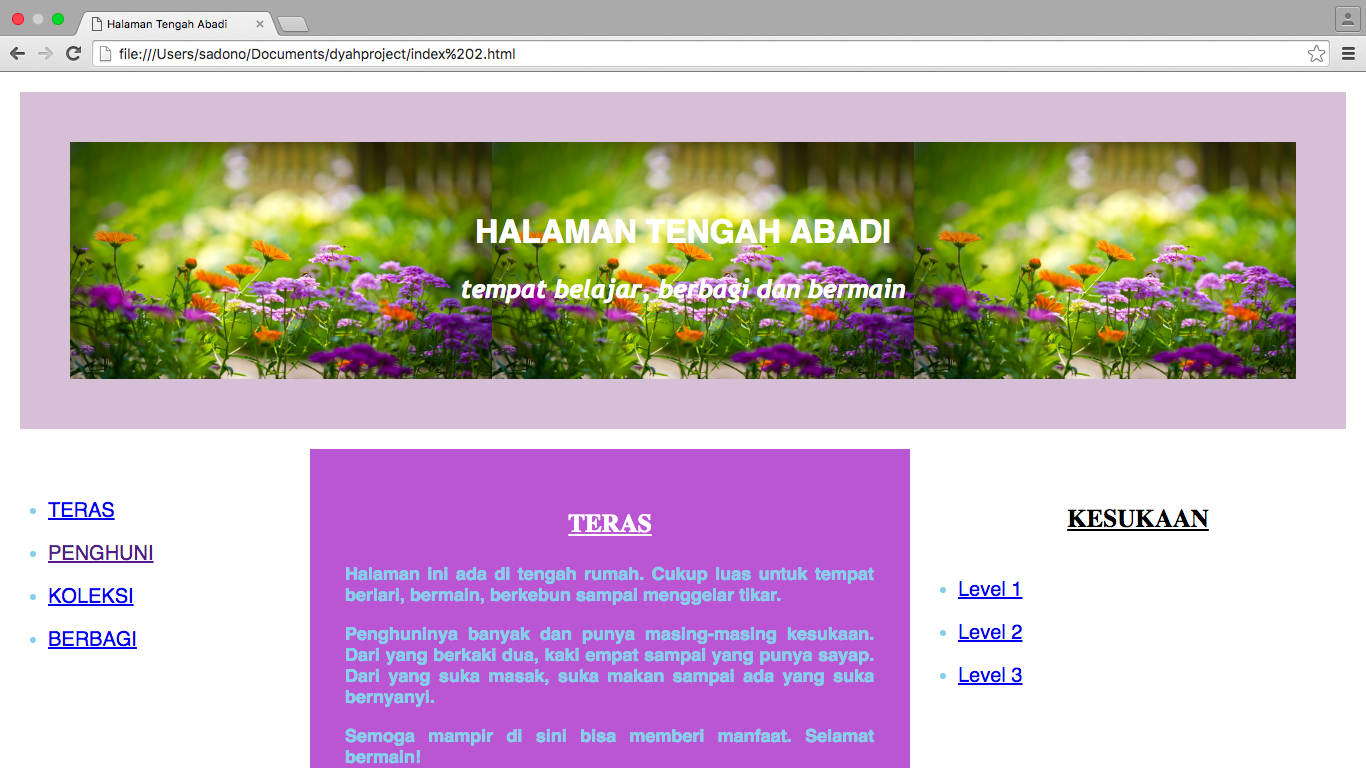
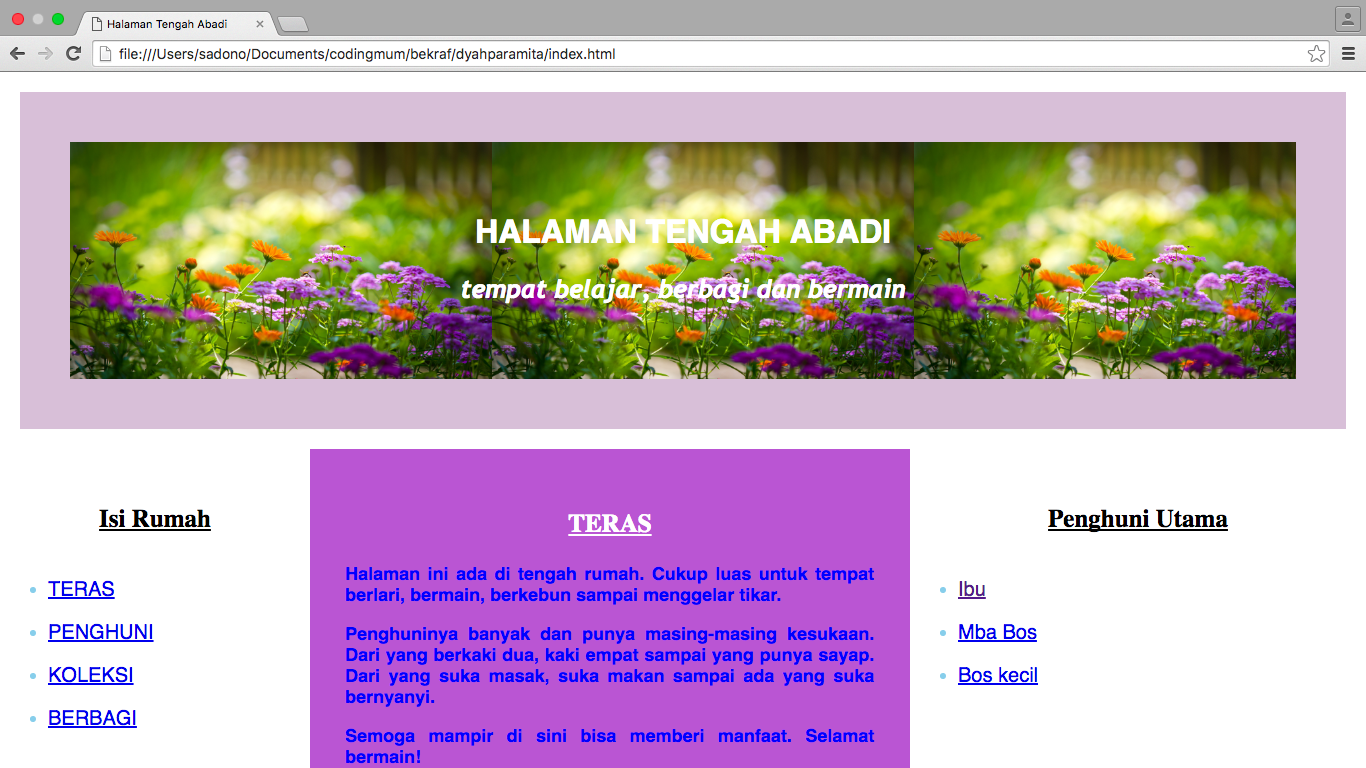
web kolom

diff --git a/dyahparamita/index.html b/dyahparamita/index.html
@@ -25,7 +25,7 @@
 <div id="kolomkiri">
   <!--<div style="background-color:plum; color:#9400d3; padding:40px;">
    -->
-    
+    <h3><u>Isi Rumah</u></h3>
     <li> <a href="teras.html">TERAS</a></li>
     <li> <a href="hewan.html">PENGHUNI</a></li>
     <li> <a href="koleksifoto.html">KOLEKSI</a></li>
@@ -58,11 +58,11 @@
     
     <div id="kolomkanan">
     
-        <h3><u>KESUKAAN</u></h3>
+        <h3><u>Penghuni Utama</u></h3>
         
-        <li><a href="level1.html">Level 1</a></li>
-        <li><a href="cities.html">Level 2</a></li>
-        <li><a href="cities.html">Level 3</a></li>
+        <li><a href="level1.html">Ibu</a></li>
+        <li><a href="cities.html">Mba Bos</a></li>
+        <li><a href="cities.html">Bos kecil</a></li>
         
     
       

diff --git a/dyahparamita/css/style.css b/dyahparamita/css/style.css
@@ -31,13 +31,13 @@ h4{
     background: white;   
 }
 
-.inside-head{
+/*.inside-head{*/
 /*    background-image: url(fotograrden.jpeg)*/
 /*    background-position: center top;*/
 /*    background-size: cover;*/
 /*    padding: 20px;*/
     
-}
+/*}*/
 
 #kolomkiri{
     width: 250px;
